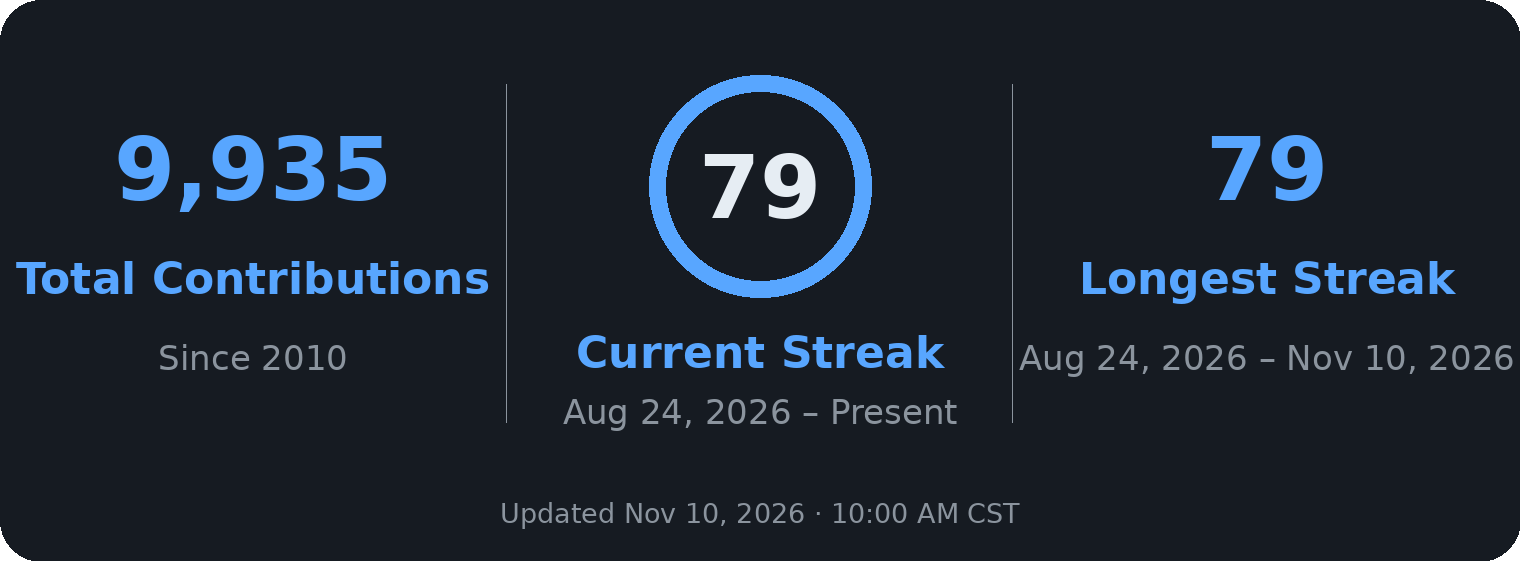
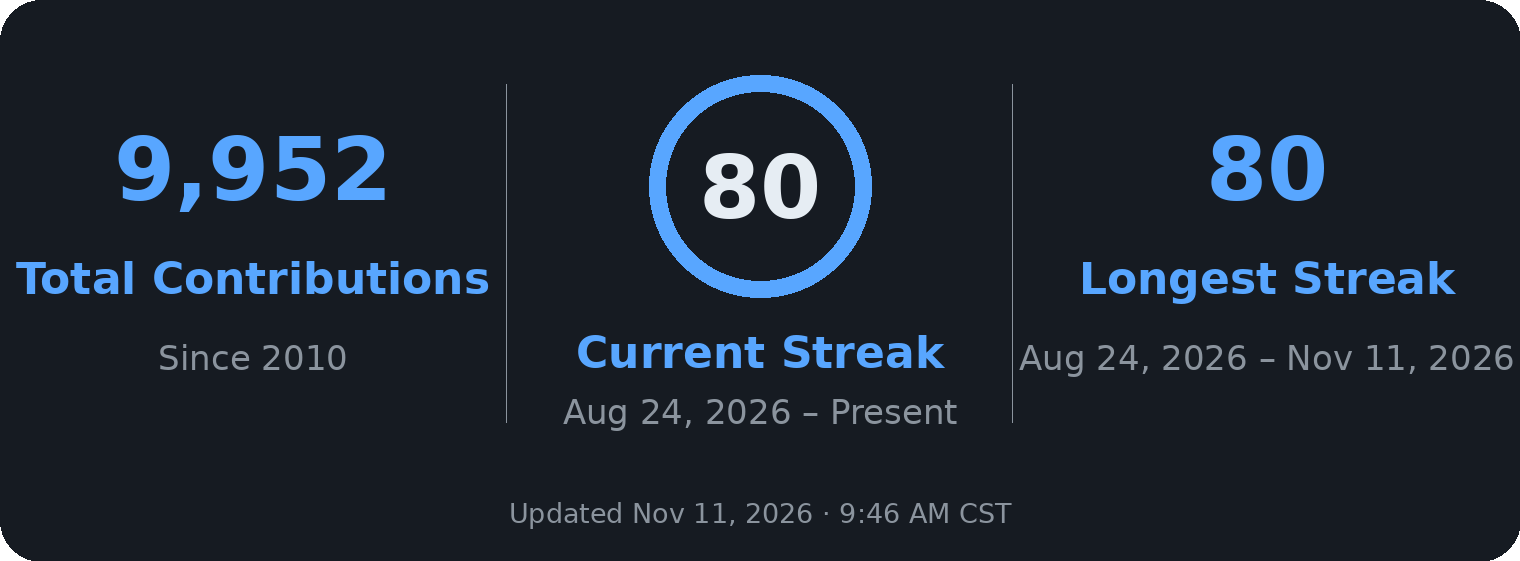
chore: refresh latest post cards

diff --git a/README.md b/README.md
@@ -27,7 +27,7 @@ I build AI-native systems for the modern enterprise, teach the next generation o
 
 <!-- ACTIVITY-CARD:START -->
 <p align="center">
-  <a href="https://github.com/bjgreenberg" target="_blank" rel="noopener noreferrer"><img src="assets/activity_card.png?v=9c4ee826" width="760" alt="GitHub activity — 9,935 total contributions, 79-day current streak, 79-day longest streak"/></a>
+  <a href="https://github.com/bjgreenberg" target="_blank" rel="noopener noreferrer"><img src="assets/activity_card.png?v=ed063557" width="760" alt="GitHub activity — 9,952 total contributions, 80-day current streak, 80-day longest streak"/></a>
 </p>
 <!-- ACTIVITY-CARD:END -->
 
@@ -35,7 +35,7 @@ I build AI-native systems for the modern enterprise, teach the next generation o
 
 <!-- FEATURED-PROJECT:START -->
 <p align="center">
-  <a href="https://github.com/bjgreenberg/senior-engineering-partner" target="_blank" rel="noopener noreferrer"><img src="assets/featured_card.png?v=0999c314" width="760" alt="Featured project — bjgreenberg/senior-engineering-partner: Python · Apache-2.0 · v1.32.0 · 191 stars · 22 forks"/></a>
+  <a href="https://github.com/bjgreenberg/senior-engineering-partner" target="_blank" rel="noopener noreferrer"><img src="assets/featured_card.png?v=7665b1b1" width="760" alt="Featured project — bjgreenberg/senior-engineering-partner: Python · Apache-2.0 · v1.32.0 · 192 stars · 22 forks"/></a>
 </p>
 <p align="center">
   Install it in Claude Code: <code>/plugin marketplace add bjgreenberg/senior-engineering-partner</code> → <code>/plugin install senior-engineering-partner@bjgreenberg</code>
@@ -119,5 +119,5 @@ I build AI-native systems for the modern enterprise, teach the next generation o
 > "Technology is only as powerful as the intentions of the people behind it."
 
 <!-- README-STAMP:START -->
-_Last updated: 2026-11-10 10:00 AM CST_
+_Last updated: 2026-11-11 09:46 AM CST_
 <!-- README-STAMP:END -->
